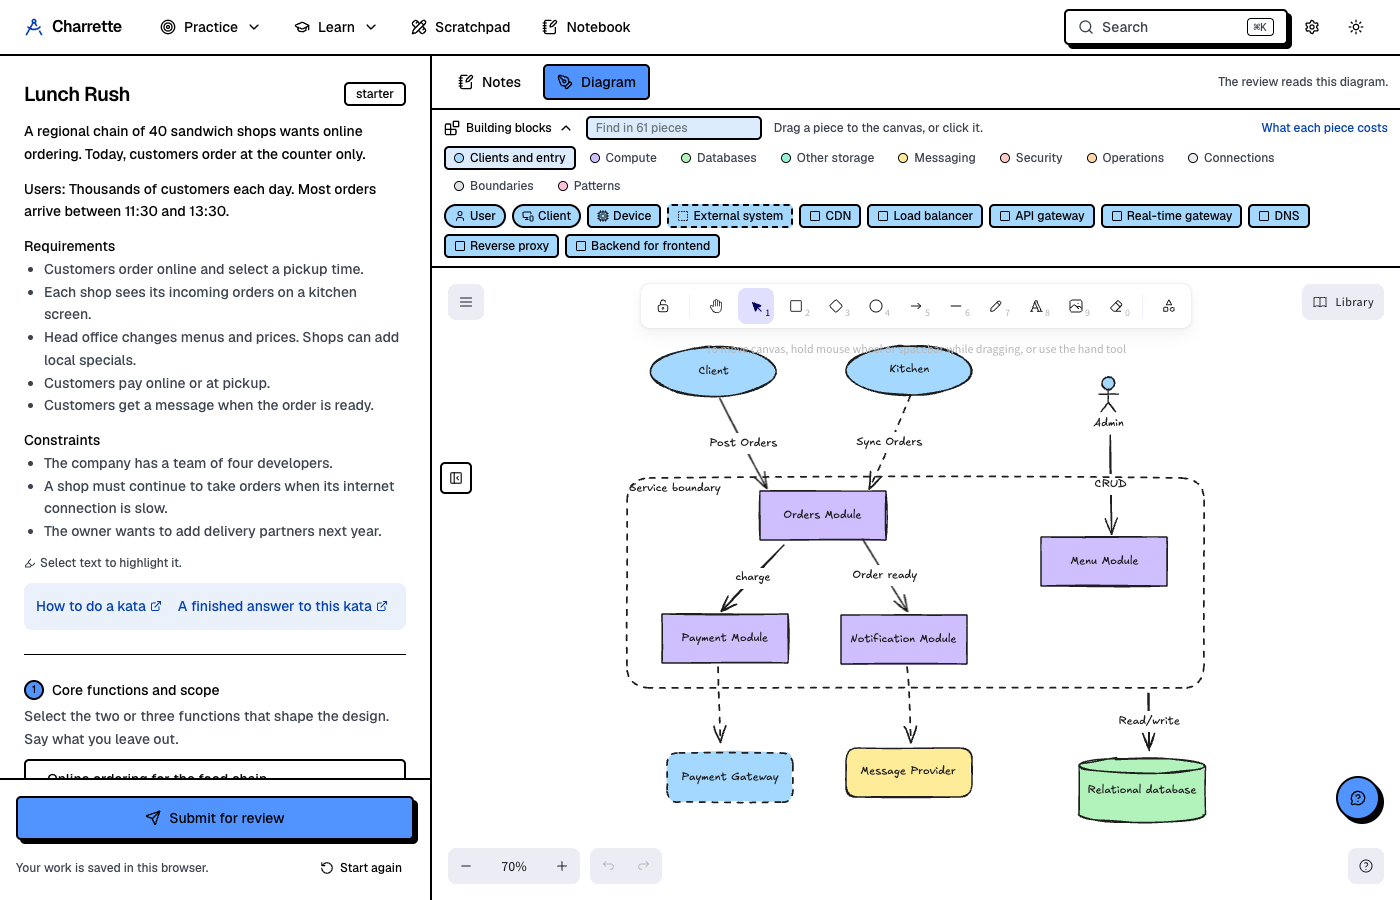
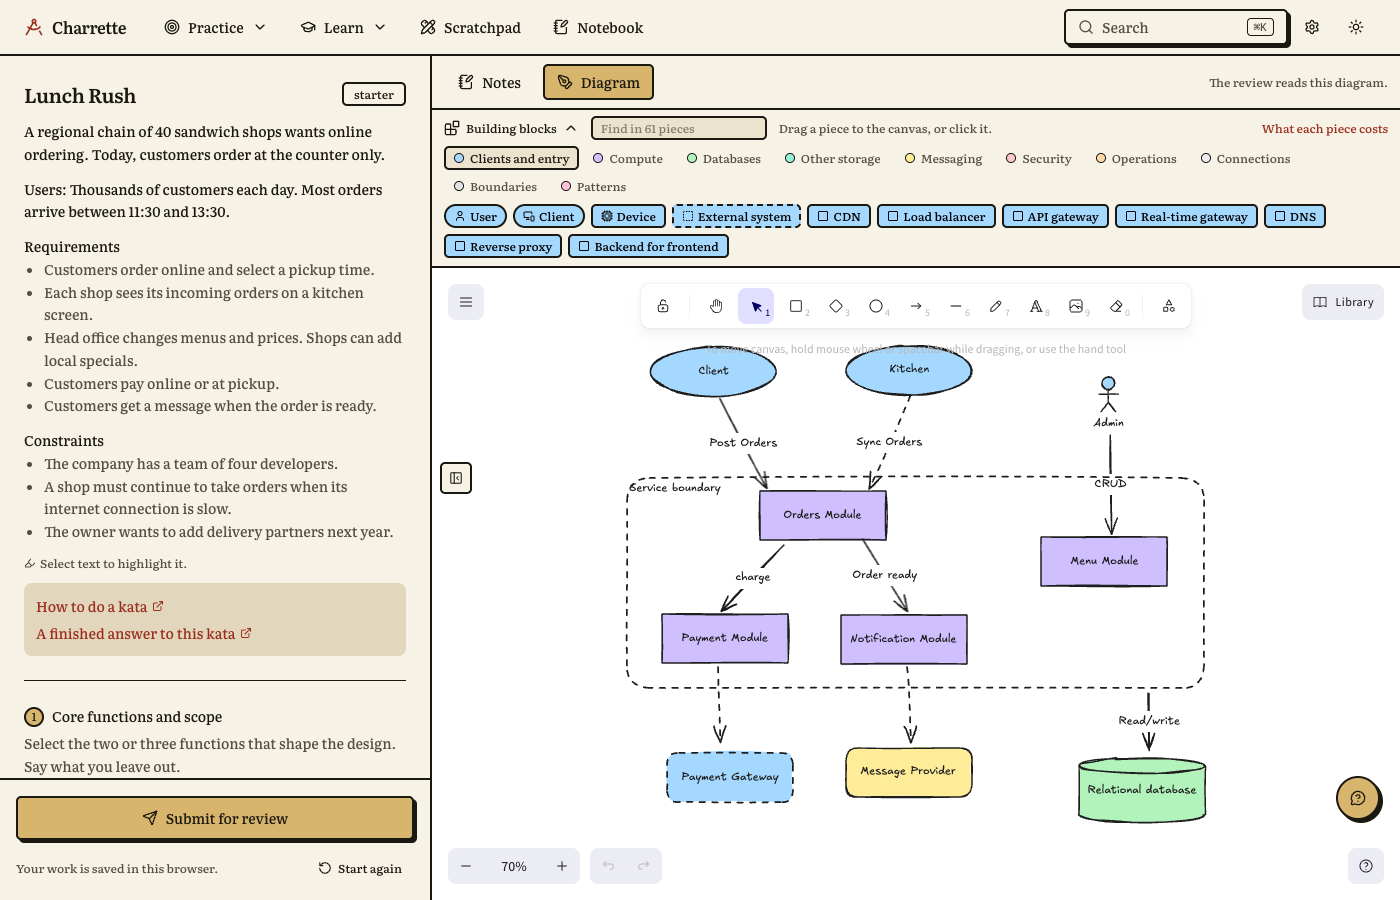
Use Literata for the whole app and the website
- Set the app in Literata, in place of Bodoni Moda and EB Garamond.
- Make the font setting change the whole app: Literata or Geist.
- Set the website in Literata, including the tagline and the crit note.
- Take the app screenshots again in the new theme.

diff --git a/docs/index.html b/docs/index.html
@@ -21,14 +21,14 @@
     <link rel="preconnect" href="https://fonts.googleapis.com" />
     <link rel="preconnect" href="https://fonts.gstatic.com" crossorigin />
     <link
-      href="https://fonts.googleapis.com/css2?family=Architects+Daughter&family=Bodoni+Moda:ital,opsz,wght@0,6..96,400..800;1,6..96,400..700&family=EB+Garamond:ital,wght@0,400;0,500;0,600;1,400&display=swap"
+      href="https://fonts.googleapis.com/css2?family=Literata:ital,opsz,wght@0,7..72,400..700;1,7..72,400..600&display=swap"
       rel="stylesheet"
     />
     <style>
       /*
         The atelier folio. The page looks like a 19th-century book of plates from the
-        École des Beaux-Arts: ivory paper, ink, Didone display type (the age of Firmin-Didot,
-        who published the engraving), Garamond for reading, and red chalk only for the crit.
+        École des Beaux-Arts: ivory paper, ink, Literata for all the text,
+        and red chalk only for the crit.
       */
       :root {
         --paper: #ece3cf;
@@ -41,9 +41,9 @@
         --glass: rgba(15, 13, 10, 0.8);
         --glass-ink: #eee5d0;
         --crit: #9b2f1f;
-        --display: "Bodoni Moda", "Didot", "Bodoni 72", Georgia, serif;
-        --serif: "EB Garamond", Garamond, Georgia, serif;
-        --hand: "Architects Daughter", "Segoe Print", cursive;
+        /* One font, as in the app: Literata, a book face made for reading on screens. */
+        --display: "Literata", Georgia, serif;
+        --serif: "Literata", Georgia, serif;
         --mono: ui-monospace, "SF Mono", Menlo, monospace;
         --print: none;
         color-scheme: light;
@@ -73,7 +73,7 @@
         background: var(--paper);
         color: var(--ink);
         font-family: var(--serif);
-        font-size: 1.1875rem;
+        font-size: 1.125rem;
         line-height: 1.6;
         font-kerning: normal;
         font-variant-numeric: oldstyle-nums;
@@ -195,8 +195,8 @@
       }
       .hero h1 {
         margin-top: 1.6rem;
-        font-size: clamp(2.6rem, 6vw, 5.6rem);
-        font-weight: 500;
+        font-size: clamp(2.4rem, 5.4vw, 5rem);
+        font-weight: 600;
         line-height: 0.98;
         letter-spacing: -0.015em;
       }
@@ -449,7 +449,8 @@
         box-shadow: 0 3px 8px rgba(27, 24, 18, 0.18);
         transform: rotate(2.5deg);
         color: #9b2f1f;
-        font-family: var(--hand);
+        font-family: var(--serif);
+        font-style: italic;
         font-size: clamp(0.82rem, 1.4vw, 1.02rem);
         line-height: 1.35;
       }
@@ -1166,7 +1167,8 @@ pnpm dev</pre>
         <div>
           <h2>Colophon</h2>
           <p>
-            Set in Bodoni Moda and EB Garamond. The engraving is by Alexis Lemaistre, 1889, from
+            Set in Literata, the same font as the app. The engraving is by Alexis Lemaistre, 1889,
+            from
             <a
               href="https://commons.wikimedia.org/wiki/File:Charrette,_%C3%89cole_nationale_sup%C3%A9rieure_des_beaux-arts,_by_Alexis_Lemaistre.png"
               >Wikimedia Commons</a

diff --git a/src/app/globals.css b/src/app/globals.css
@@ -5,12 +5,10 @@
 @custom-variant dark (&:is(.dark *));
 
 @theme inline {
-  --font-sans: var(--font-geist-sans);
+  /* The font of the app. It is a variable, so the reading font setting can change it at once. */
+  --font-sans: var(--app-font);
   --font-mono: var(--font-geist-mono);
   --font-heading: var(--font-sans);
-  /* Bodoni Moda for the page titles and the lesson headings. EB Garamond for the lesson text. */
-  --font-display: var(--font-bodoni);
-  --font-serif: var(--font-garamond);
   --color-chart-5: var(--chart-5);
   --color-chart-4: var(--chart-4);
   --color-chart-3: var(--chart-3);
@@ -145,9 +143,7 @@
   html {
     @apply font-sans;
   }
-  /* The page titles are set in Bodoni, as on the website. Bodoni is only for large sizes. */
   h1 {
-    font-family: var(--font-display);
     font-weight: 600;
   }
   h1,
@@ -166,16 +162,21 @@ body,
 }
 
 /*
-  The text of a lesson, as in a book. The reader can select a sans font in Settings, which sets
-  data-reading="sans" on the html element.
+  Literata for the whole app, as on the website. In Settings, the reader can select Geist (sans)
+  instead. That sets data-reading="sans" on the html element.
 */
+:root {
+  --app-font: var(--font-literata), Georgia, serif;
+}
+[data-reading="sans"] {
+  --app-font: var(--font-geist-sans), system-ui, sans-serif;
+}
+/* The text of a lesson, slightly larger, with more space between the lines. */
 .reading {
-  font-family: var(--font-serif);
-  font-size: 1.125rem;
-  line-height: 1.8;
+  font-size: 1.0625rem;
+  line-height: 1.75;
 }
 [data-reading="sans"] .reading {
-  font-family: var(--font-sans);
   font-size: 0.9375rem;
   line-height: 1.75rem;
 }

diff --git a/src/components/ReadingFontSetting.tsx b/src/components/ReadingFontSetting.tsx
@@ -9,15 +9,15 @@ import { cn } from "@/lib/utils";
 const options: { id: ReadingFont; title: string; sample: string; className: string }[] = [
   {
     id: "serif",
-    title: "Serif, like a book",
+    title: "Literata, like a book",
     sample: "Every architecture decision is a trade-off.",
-    className: "font-serif text-lg",
+    className: "font-[family-name:var(--font-literata)] text-base",
   },
   {
     id: "sans",
-    title: "Sans, like the rest of the app",
+    title: "Geist, a sans font",
     sample: "Every architecture decision is a trade-off.",
-    className: "font-sans",
+    className: "font-[family-name:var(--font-geist-sans)]",
   },
 ];
 
@@ -50,15 +50,15 @@ export default function ReadingFontSetting() {
     <Card>
       <CardHeader>
         <CardTitle className="flex items-center gap-2">
-          <BookOpen className="size-4" aria-hidden /> Reading font
+          <BookOpen className="size-4" aria-hidden /> Font
         </CardTitle>
         <CardDescription>
-          The font of the lesson text. The change applies at once, in this browser.
+          The font of the whole app. The change applies at once, in this browser.
         </CardDescription>
       </CardHeader>
       <CardContent>
         <fieldset className="grid gap-2 sm:grid-cols-2">
-          <legend className="sr-only">Reading font</legend>
+          <legend className="sr-only">Font</legend>
           {options.map((item) => (
             <label
               key={item.id}

diff --git a/src/app/layout.tsx b/src/app/layout.tsx
@@ -1,5 +1,5 @@
 import type { Metadata } from "next";
-import { Bodoni_Moda, EB_Garamond, Geist, Geist_Mono } from "next/font/google";
+import { Geist, Geist_Mono, Literata } from "next/font/google";
 import SiteHeader from "@/components/SiteHeader";
 import ThemeProvider from "@/components/ThemeProvider";
 import { readingFontScript } from "@/lib/reading-font";
@@ -11,17 +11,13 @@ const geistSans = Geist({
   subsets: ["latin"],
 });
 
-const bodoni = Bodoni_Moda({
-  variable: "--font-bodoni",
+// Literata is the font of the whole app, as on the website. Its optical sizes keep small text
+// crisp. Geist is the sans font that the reader can select in Settings.
+const literata = Literata({
+  variable: "--font-literata",
   subsets: ["latin"],
   style: ["normal", "italic"],
   axes: ["opsz"],
-});
-
-const garamond = EB_Garamond({
-  variable: "--font-garamond",
-  subsets: ["latin"],
-  style: ["normal", "italic"],
 });
 
 const geistMono = Geist_Mono({
@@ -40,7 +36,7 @@ export default function RootLayout({ children }: LayoutProps<"/">) {
     <html
       lang="en"
       suppressHydrationWarning
-      className={`${geistSans.variable} ${geistMono.variable} ${bodoni.variable} ${garamond.variable} h-full antialiased`}
+      className={`${geistSans.variable} ${geistMono.variable} ${literata.variable} h-full antialiased`}
     >
       <body className="min-h-full flex flex-col font-sans">
         {/* Move the browser data of the old app name before the app reads it. */}

diff --git a/src/components/Prose.tsx b/src/components/Prose.tsx
@@ -47,7 +47,7 @@ export default function Prose({
           h2: ({ children }) => (
             <h2
               id={headingId(text(children))}
-              className="scroll-mt-6 border-b pb-1 pt-4 font-display text-2xl font-semibold"
+              className="scroll-mt-6 border-b pb-1 pt-4 text-2xl font-semibold"
             >
               {children}
             </h2>
@@ -101,7 +101,7 @@ export default function Prose({
           // A wide table scrolls to the side, so each column keeps a readable width.
           table: ({ children }) => (
             <TableFrame>
-              <table className="w-full border-collapse text-left font-sans text-sm leading-6 [&_tbody_tr:hover]:bg-main/15 [&_tbody_tr:nth-child(even)]:bg-muted/50">
+              <table className="w-full border-collapse text-left text-sm leading-6 [&_tbody_tr:hover]:bg-main/15 [&_tbody_tr:nth-child(even)]:bg-muted/50">
                 {children}
               </table>
             </TableFrame>

diff --git a/src/lib/reading-font.ts b/src/lib/reading-font.ts
@@ -1,4 +1,4 @@
-// The font of the lesson text: serif (EB Garamond, the default) or sans (Geist).
+// The font of the app: serif (Literata, the default) or sans (Geist).
 // The choice is kept in this browser only.
 export const READING_FONT_KEY = "charrette:reading-font";
 export type ReadingFont = "serif" | "sans";
